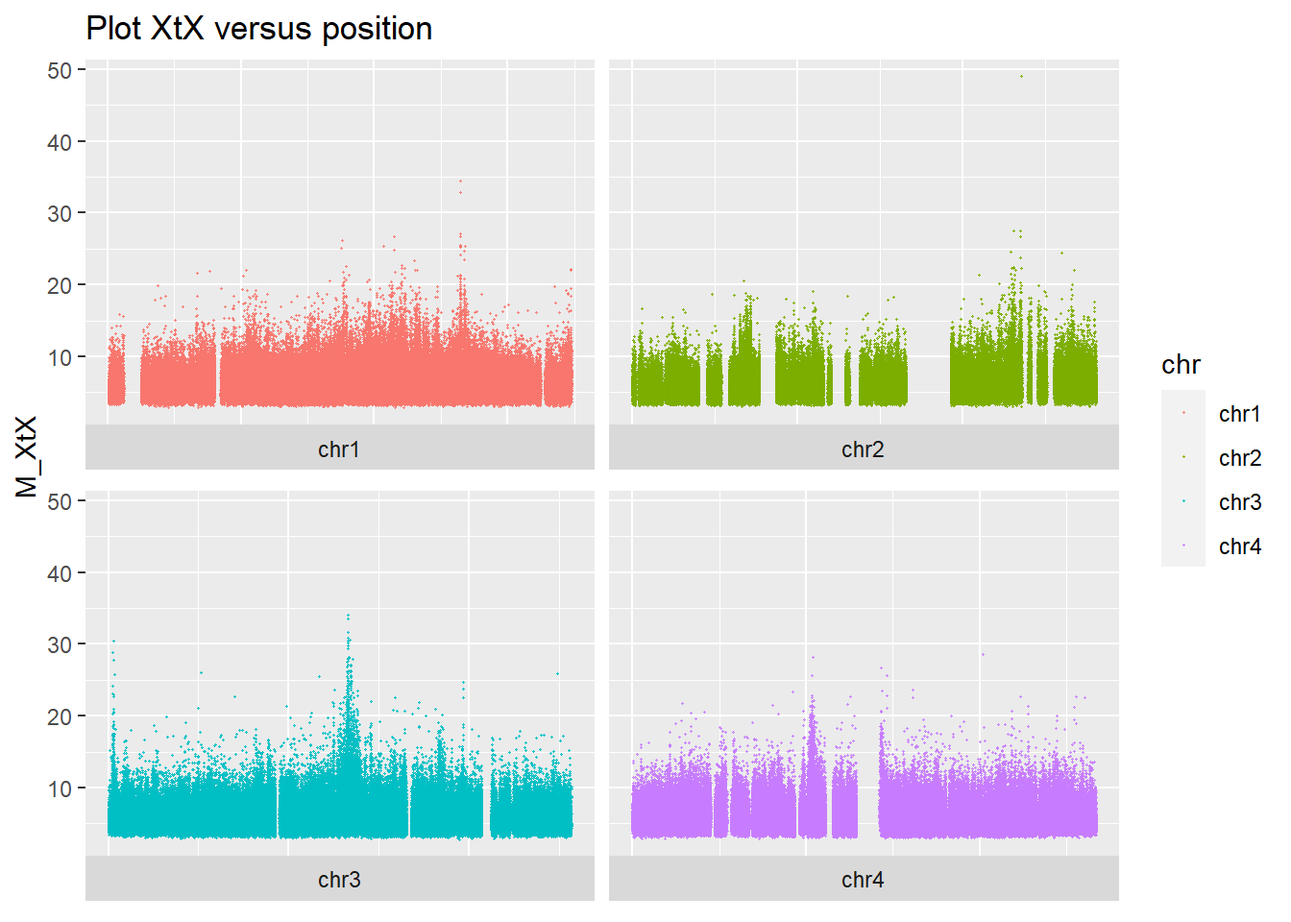
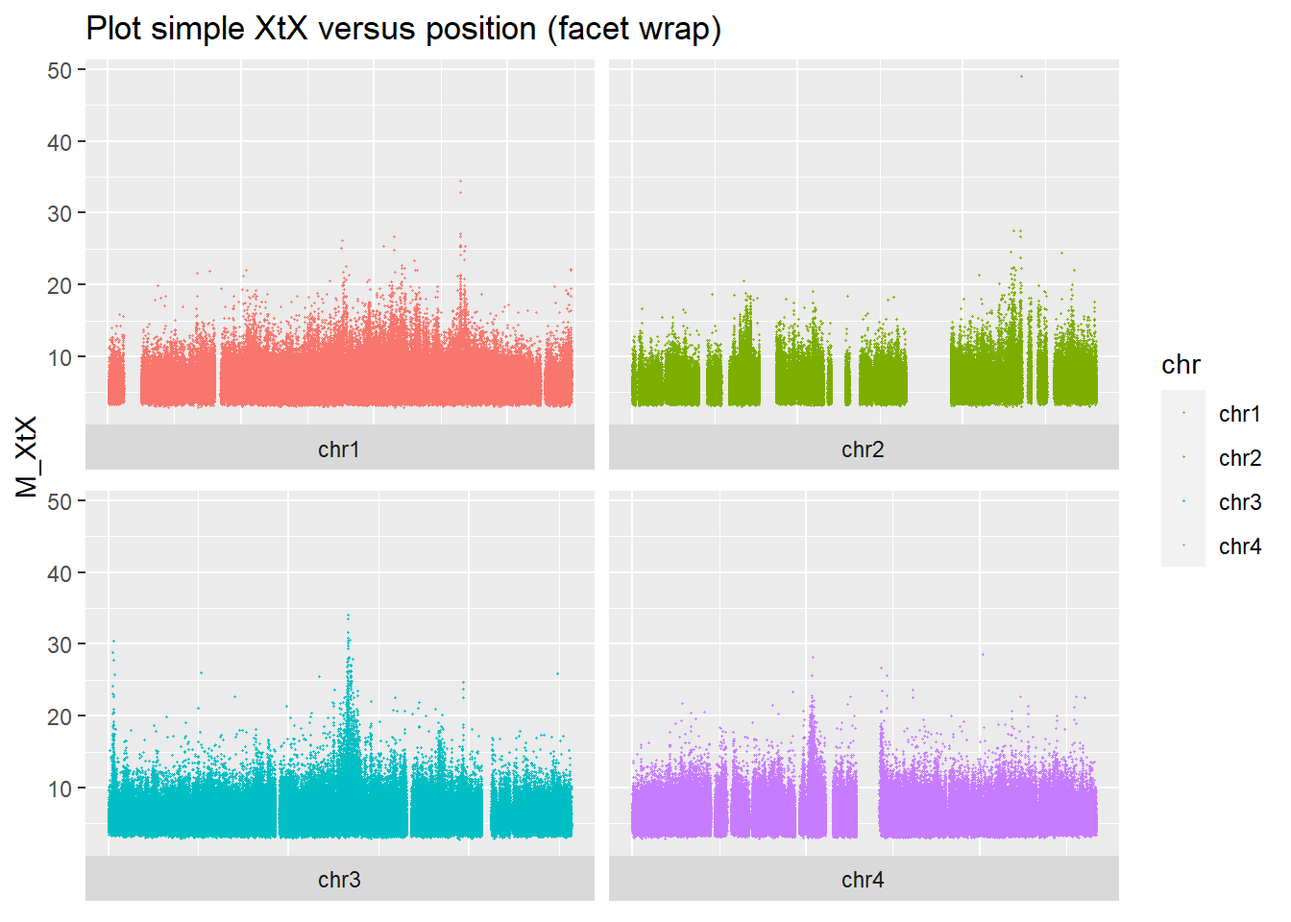
maj

Changed region(s): [[0.125, 0.0, 0.5625, 0.0625]]

diff --git a/docs/exploitation-des-résultats.html b/docs/exploitation-des-résultats.html
@@ -29,7 +29,7 @@ set in the _output.yml file.</p>" />
 <meta name="author" content="Jérôme OLIVARES" />
 
 
-<meta name="date" content="2023-09-23" />
+<meta name="date" content="2023-10-03" />
 
   <meta name="viewport" content="width=device-width, initial-scale=1" />
   <meta name="apple-mobile-web-app-capable" content="yes" />
@@ -273,14 +273,17 @@ Les valeurs de XtX les plus élevés indiquent une différentiation significativ
 Les valeurs de <em>XtX</em> sont contenues dans la colonne <strong><em>M_XtX</em></strong><br>
 L’affichage des chromosomes peut se faire en grille (facet_wrap) ou en ligne (facet_grid).<br>
 </p>
-<div class="sourceCode" id="cb25"><pre class="sourceCode r bg-chunk"><code class="sourceCode r"><span id="cb25-1"><a href="exploitation-des-résultats.html#cb25-1" tabindex="-1"></a>Manplot.XtX <span class="ot">=</span> <span class="fu">ggplot</span>(<span class="at">data=</span>XtX.res, <span class="fu">aes</span>(<span class="at">x=</span>pos, <span class="at">y=</span>M_XtX)) <span class="sc">+</span></span>
+<div class="sourceCode" id="cb25"><pre class="sourceCode r bg-chunk"><code class="sourceCode r"><span id="cb25-1"><a href="exploitation-des-résultats.html#cb25-1" tabindex="-1"></a>Manplot.XtX <span class="ot">=</span> <span class="fu">ggplot</span>(<span class="at">data=</span>Full.res, <span class="fu">aes</span>(<span class="at">x=</span>pos, <span class="at">y=</span>M_XtX)) <span class="sc">+</span></span>
 <span id="cb25-2"><a href="exploitation-des-résultats.html#cb25-2" tabindex="-1"></a>  <span class="fu">geom_point</span>(<span class="fu">aes</span>(<span class="at">color=</span>chr), <span class="at">alpha=</span><span class="fl">0.8</span>, <span class="at">size=</span><span class="fl">0.25</span>) <span class="sc">+</span></span>
-<span id="cb25-3"><a href="exploitation-des-résultats.html#cb25-3" tabindex="-1"></a>  <span class="fu">theme</span>(<span class="at">axis.title.x=</span><span class="fu">element_blank</span>(), <span class="at">axis.text.x=</span><span class="fu">element_blank</span>(), <span class="at">axis.ticks.x=</span><span class="fu">element_blank</span>())<span class="sc">+</span></span>
-<span id="cb25-4"><a href="exploitation-des-résultats.html#cb25-4" tabindex="-1"></a>  <span class="fu">ggtitle</span>(<span class="st">&quot;Plot XtX versus position&quot;</span>)</span>
-<span id="cb25-5"><a href="exploitation-des-résultats.html#cb25-5" tabindex="-1"></a>Manplot.XtX <span class="sc">+</span> <span class="fu">facet_wrap</span>(<span class="sc">~</span>chr, <span class="at">scales =</span> <span class="st">&#39;free_x&#39;</span>, <span class="at">strip.position =</span> <span class="fu">c</span>(<span class="st">&quot;bottom&quot;</span>))</span></code></pre></div>
+<span id="cb25-3"><a href="exploitation-des-résultats.html#cb25-3" tabindex="-1"></a>  <span class="fu">theme</span>(<span class="at">axis.title.x=</span><span class="fu">element_blank</span>(), <span class="at">axis.text.x=</span><span class="fu">element_blank</span>(), <span class="at">axis.ticks.x=</span><span class="fu">element_blank</span>())</span>
+<span id="cb25-4"><a href="exploitation-des-résultats.html#cb25-4" tabindex="-1"></a></span>
+<span id="cb25-5"><a href="exploitation-des-résultats.html#cb25-5" tabindex="-1"></a>Manplot.XtX <span class="sc">+</span> <span class="fu">ggtitle</span>(<span class="st">&quot;Plot simple XtX versus position (facet wrap)&quot;</span>)<span class="sc">+</span></span>
+<span id="cb25-6"><a href="exploitation-des-résultats.html#cb25-6" tabindex="-1"></a>  <span class="fu">facet_wrap</span>(<span class="sc">~</span>chr, <span class="at">scales =</span> <span class="st">&#39;free_x&#39;</span>, <span class="at">strip.position =</span> <span class="fu">c</span>(<span class="st">&quot;bottom&quot;</span>))</span></code></pre></div>
 <p><img src="BayPass_Fr_files/figure-html/plot_XtX-1.png" width="672" /></p>
-<div class="sourceCode" id="cb26"><pre class="sourceCode r bg-chunk"><code class="sourceCode r"><span id="cb26-1"><a href="exploitation-des-résultats.html#cb26-1" tabindex="-1"></a>Manplot.XtX <span class="sc">+</span> <span class="fu">facet_grid</span>(<span class="sc">~</span>chr,<span class="at">scales =</span> <span class="st">&#39;free_x&#39;</span>, <span class="at">space =</span> <span class="st">&#39;free_x&#39;</span>, <span class="at">switch =</span> <span class="st">&#39;x&#39;</span>)</span></code></pre></div>
+<div class="sourceCode" id="cb26"><pre class="sourceCode r bg-chunk"><code class="sourceCode r"><span id="cb26-1"><a href="exploitation-des-résultats.html#cb26-1" tabindex="-1"></a>Manplot.XtX <span class="sc">+</span> <span class="fu">ggtitle</span>(<span class="st">&quot;Plot simple des XtX versus position (facet grid)&quot;</span>)<span class="sc">+</span></span>
+<span id="cb26-2"><a href="exploitation-des-résultats.html#cb26-2" tabindex="-1"></a>  <span class="fu">facet_grid</span>(<span class="sc">~</span>chr,<span class="at">scales =</span> <span class="st">&#39;free_x&#39;</span>, <span class="at">space =</span> <span class="st">&#39;free_x&#39;</span>, <span class="at">switch =</span> <span class="st">&#39;x&#39;</span>)</span></code></pre></div>
 <p><img src="BayPass_Fr_files/figure-html/plot_XtX-2.png" width="672" /></p>
+<p>Dans l’exemple précédent on peut voir plusieurs régions génomiques fortement différenciées en particulier au milieu du chromosome 3.</p>
 </div>
 <div id="les-résultats-de-bayes-factor-bf" class="section level2 unnumbered hasAnchor">
 <h2>Les résultats de Bayes Factor <em>BF</em>:<a href="exploitation-des-résultats.html#les-résultats-de-bayes-factor-bf" class="anchor-section" aria-label="Anchor link to header"></a></h2>
@@ -294,17 +297,14 @@ Un Manhattan plot simple des valeurs de <em>BF</em> permet de visualiser les SNP
 Les valeurs de Bayes Factors sont contenues dans la colonne <strong><em>BF.dB.</em></strong><br>
 L’affichage des chromosomes peut se faire en grille (facet_wrap) ou en ligne (facet_grid).<br>
 </p>
-<div class="sourceCode" id="cb27"><pre class="sourceCode r bg-chunk"><code class="sourceCode r"><span id="cb27-1"><a href="exploitation-des-résultats.html#cb27-1" tabindex="-1"></a><span class="co">#import results</span></span>
-<span id="cb27-2"><a href="exploitation-des-résultats.html#cb27-2" tabindex="-1"></a>BF.res<span class="ot">=</span><span class="fu">read.table</span>(<span class="fu">paste0</span>(path_out,<span class="st">&quot;project.Cov1&quot;</span>),<span class="at">h=</span>T)</span>
-<span id="cb27-3"><a href="exploitation-des-résultats.html#cb27-3" tabindex="-1"></a><span class="co">#plot</span></span>
-<span id="cb27-4"><a href="exploitation-des-résultats.html#cb27-4" tabindex="-1"></a>Manplot.BF <span class="ot">=</span> <span class="fu">ggplot</span>(<span class="at">data=</span>BF.res, <span class="fu">aes</span>(<span class="at">x=</span>pos, <span class="at">y=</span>BF.dB.)) <span class="sc">+</span></span>
-<span id="cb27-5"><a href="exploitation-des-résultats.html#cb27-5" tabindex="-1"></a>  <span class="fu">geom_point</span>(<span class="fu">aes</span>(<span class="at">color=</span>chr), <span class="at">alpha=</span><span class="fl">0.8</span>, <span class="at">size=</span><span class="fl">0.25</span>) <span class="sc">+</span></span>
-<span id="cb27-6"><a href="exploitation-des-résultats.html#cb27-6" tabindex="-1"></a>  <span class="fu">ggtitle</span>(<span class="st">&quot;Plot Bayes Factors versus position&quot;</span>)</span>
-<span id="cb27-7"><a href="exploitation-des-résultats.html#cb27-7" tabindex="-1"></a>Manplot.BF <span class="sc">+</span> <span class="fu">scale_x_continuous</span>() <span class="sc">+</span></span>
-<span id="cb27-8"><a href="exploitation-des-résultats.html#cb27-8" tabindex="-1"></a>  <span class="fu">scale_y_continuous</span>() <span class="sc">+</span></span>
-<span id="cb27-9"><a href="exploitation-des-résultats.html#cb27-9" tabindex="-1"></a>  <span class="fu">theme</span>(<span class="at">axis.title.x=</span><span class="fu">element_blank</span>(), <span class="at">axis.text.x=</span><span class="fu">element_blank</span>(), <span class="at">axis.ticks.x=</span><span class="fu">element_blank</span>())<span class="sc">+</span></span>
-<span id="cb27-10"><a href="exploitation-des-résultats.html#cb27-10" tabindex="-1"></a>  <span class="fu">facet_wrap</span>(<span class="sc">~</span>chr, <span class="at">scales =</span> <span class="st">&#39;free_x&#39;</span>, <span class="at">strip.position =</span> <span class="fu">c</span>(<span class="st">&quot;bottom&quot;</span>))</span>
-<span id="cb27-11"><a href="exploitation-des-résultats.html#cb27-11" tabindex="-1"></a>  <span class="co">#facet_grid(~chr,scales = &#39;free_x&#39;, space = &#39;free_x&#39;, switch = &#39;x&#39;)</span></span></code></pre></div>
+<div class="sourceCode" id="cb27"><pre class="sourceCode r bg-chunk"><code class="sourceCode r"><span id="cb27-1"><a href="exploitation-des-résultats.html#cb27-1" tabindex="-1"></a><span class="co">#plot</span></span>
+<span id="cb27-2"><a href="exploitation-des-résultats.html#cb27-2" tabindex="-1"></a>Manplot.BF <span class="ot">=</span> <span class="fu">ggplot</span>(<span class="at">data=</span>Full.res, <span class="fu">aes</span>(<span class="at">x=</span>pos, <span class="at">y=</span>BF.dB.)) <span class="sc">+</span></span>
+<span id="cb27-3"><a href="exploitation-des-résultats.html#cb27-3" tabindex="-1"></a>  <span class="fu">geom_point</span>(<span class="fu">aes</span>(<span class="at">color=</span>chr), <span class="at">alpha=</span><span class="fl">0.8</span>, <span class="at">size=</span><span class="fl">0.25</span>) <span class="sc">+</span></span>
+<span id="cb27-4"><a href="exploitation-des-résultats.html#cb27-4" tabindex="-1"></a>  <span class="fu">theme</span>(<span class="at">axis.title.x=</span><span class="fu">element_blank</span>(), <span class="at">axis.text.x=</span><span class="fu">element_blank</span>(), <span class="at">axis.ticks.x=</span><span class="fu">element_blank</span>())</span>
+<span id="cb27-5"><a href="exploitation-des-résultats.html#cb27-5" tabindex="-1"></a>Manplot.BF <span class="sc">+</span> <span class="fu">ggtitle</span>(<span class="st">&quot;Plot Bayes Factors versus position&quot;</span>)<span class="sc">+</span></span>
+<span id="cb27-6"><a href="exploitation-des-résultats.html#cb27-6" tabindex="-1"></a>  <span class="fu">facet_wrap</span>(<span class="sc">~</span>chr, <span class="at">scales =</span> <span class="st">&#39;free_x&#39;</span>, <span class="at">strip.position =</span> <span class="fu">c</span>(<span class="st">&quot;bottom&quot;</span>))</span>
+<span id="cb27-7"><a href="exploitation-des-résultats.html#cb27-7" tabindex="-1"></a>Manplot.BF <span class="sc">+</span> <span class="fu">ggtitle</span>(<span class="st">&quot;Plot Bayes Factors versus position&quot;</span>)<span class="sc">+</span></span>
+<span id="cb27-8"><a href="exploitation-des-résultats.html#cb27-8" tabindex="-1"></a>  <span class="fu">facet_grid</span>(<span class="sc">~</span>chr,<span class="at">scales =</span> <span class="st">&#39;free_x&#39;</span>, <span class="at">space =</span> <span class="st">&#39;free_x&#39;</span>, <span class="at">switch =</span> <span class="st">&#39;x&#39;</span>)</span></code></pre></div>
 </div>
 <div id="les-résultats-de-contraste-c2" class="section level2 unnumbered hasAnchor">
 <h2>Les résultats de Contraste <em>C2</em>:<a href="exploitation-des-résultats.html#les-résultats-de-contraste-c2" class="anchor-section" aria-label="Anchor link to header"></a></h2>
@@ -317,31 +317,29 @@ Un Manhattan plot simple des valeurs de la colonne <em>M_C2</em> permet de visua
 Les valeurs de contraste sont contenues dans la colonne <strong><em>M_C2</em></strong><br>
 L’affichage des chromosomes peut se faire en grille (facet_wrap) ou en ligne (facet_grid).<br>
 </p>
-<div class="sourceCode" id="cb28"><pre class="sourceCode r bg-chunk"><code class="sourceCode r"><span id="cb28-1"><a href="exploitation-des-résultats.html#cb28-1" tabindex="-1"></a><span class="co">#import results</span></span>
-<span id="cb28-2"><a href="exploitation-des-résultats.html#cb28-2" tabindex="-1"></a>C2.res<span class="ot">=</span><span class="fu">read.table</span>(<span class="fu">paste0</span>(path_out,<span class="st">&quot;project.Contrast1&quot;</span>),<span class="at">h=</span>T)</span>
-<span id="cb28-3"><a href="exploitation-des-résultats.html#cb28-3" tabindex="-1"></a><span class="co">#plot</span></span>
-<span id="cb28-4"><a href="exploitation-des-résultats.html#cb28-4" tabindex="-1"></a>Manplot.BF <span class="ot">=</span> <span class="fu">ggplot</span>(<span class="at">data=</span>C2.res, <span class="fu">aes</span>(<span class="at">x=</span>pos, <span class="at">y=</span>M_C2)) <span class="sc">+</span></span>
-<span id="cb28-5"><a href="exploitation-des-résultats.html#cb28-5" tabindex="-1"></a>  <span class="fu">geom_point</span>(<span class="fu">aes</span>(<span class="at">color=</span>chr), <span class="at">alpha=</span><span class="fl">0.8</span>, <span class="at">size=</span><span class="fl">0.25</span>) <span class="sc">+</span></span>
-<span id="cb28-6"><a href="exploitation-des-résultats.html#cb28-6" tabindex="-1"></a>  <span class="fu">ggtitle</span>(<span class="st">&quot;Plot contrast values versus position&quot;</span>)</span>
-<span id="cb28-7"><a href="exploitation-des-résultats.html#cb28-7" tabindex="-1"></a>Manplot.BF <span class="sc">+</span> <span class="fu">scale_x_continuous</span>() <span class="sc">+</span></span>
-<span id="cb28-8"><a href="exploitation-des-résultats.html#cb28-8" tabindex="-1"></a>  <span class="fu">scale_y_continuous</span>() <span class="sc">+</span></span>
-<span id="cb28-9"><a href="exploitation-des-résultats.html#cb28-9" tabindex="-1"></a>  <span class="fu">theme</span>(<span class="at">axis.title.x=</span><span class="fu">element_blank</span>(), <span class="at">axis.text.x=</span><span class="fu">element_blank</span>(), <span class="at">axis.ticks.x=</span><span class="fu">element_blank</span>())<span class="sc">+</span></span>
-<span id="cb28-10"><a href="exploitation-des-résultats.html#cb28-10" tabindex="-1"></a>  <span class="fu">facet_wrap</span>(<span class="sc">~</span>chr, <span class="at">scales =</span> <span class="st">&#39;free_x&#39;</span>, <span class="at">strip.position =</span> <span class="fu">c</span>(<span class="st">&quot;bottom&quot;</span>))</span>
-<span id="cb28-11"><a href="exploitation-des-résultats.html#cb28-11" tabindex="-1"></a>  <span class="co">#facet_grid(~chr,scales = &#39;free_x&#39;, space = &#39;free_x&#39;, switch = &#39;x&#39;)</span></span></code></pre></div>
+<div class="sourceCode" id="cb28"><pre class="sourceCode r bg-chunk"><code class="sourceCode r"><span id="cb28-1"><a href="exploitation-des-résultats.html#cb28-1" tabindex="-1"></a><span class="co">#plot</span></span>
+<span id="cb28-2"><a href="exploitation-des-résultats.html#cb28-2" tabindex="-1"></a>Manplot.BF <span class="ot">=</span> <span class="fu">ggplot</span>(<span class="at">data=</span>Full.res, <span class="fu">aes</span>(<span class="at">x=</span>pos, <span class="at">y=</span>M_C2)) <span class="sc">+</span></span>
+<span id="cb28-3"><a href="exploitation-des-résultats.html#cb28-3" tabindex="-1"></a>  <span class="fu">geom_point</span>(<span class="fu">aes</span>(<span class="at">color=</span>chr), <span class="at">alpha=</span><span class="fl">0.8</span>, <span class="at">size=</span><span class="fl">0.25</span>) <span class="sc">+</span></span>
+<span id="cb28-4"><a href="exploitation-des-résultats.html#cb28-4" tabindex="-1"></a>  <span class="fu">theme</span>(<span class="at">axis.title.x=</span><span class="fu">element_blank</span>(), <span class="at">axis.text.x=</span><span class="fu">element_blank</span>(), <span class="at">axis.ticks.x=</span><span class="fu">element_blank</span>())</span>
+<span id="cb28-5"><a href="exploitation-des-résultats.html#cb28-5" tabindex="-1"></a>Manplot.BF <span class="sc">+</span></span>
+<span id="cb28-6"><a href="exploitation-des-résultats.html#cb28-6" tabindex="-1"></a>  <span class="fu">ggtitle</span>(<span class="st">&quot;Plot contrast values versus position&quot;</span>)<span class="sc">+</span></span>
+<span id="cb28-7"><a href="exploitation-des-résultats.html#cb28-7" tabindex="-1"></a>  <span class="fu">facet_wrap</span>(<span class="sc">~</span>chr, <span class="at">scales =</span> <span class="st">&#39;free_x&#39;</span>, <span class="at">strip.position =</span> <span class="fu">c</span>(<span class="st">&quot;bottom&quot;</span>))</span>
+<span id="cb28-8"><a href="exploitation-des-résultats.html#cb28-8" tabindex="-1"></a>Manplot.BF <span class="sc">+</span></span>
+<span id="cb28-9"><a href="exploitation-des-résultats.html#cb28-9" tabindex="-1"></a>  <span class="fu">ggtitle</span>(<span class="st">&quot;Plot contrast values versus position&quot;</span>)<span class="sc">+</span></span>
+<span id="cb28-10"><a href="exploitation-des-résultats.html#cb28-10" tabindex="-1"></a>  <span class="fu">facet_grid</span>(<span class="sc">~</span>chr,<span class="at">scales =</span> <span class="st">&#39;free_x&#39;</span>, <span class="at">space =</span> <span class="st">&#39;free_x&#39;</span>, <span class="at">switch =</span> <span class="st">&#39;x&#39;</span>)</span></code></pre></div>
 <p>#Comparaison par diagramme de Venn:</p>
 <div class="sourceCode" id="cb29"><pre class="sourceCode r bg-chunk"><code class="sourceCode r"><span id="cb29-1"><a href="exploitation-des-résultats.html#cb29-1" tabindex="-1"></a><span class="co">#Filtrage selon conditions</span></span>
-<span id="cb29-2"><a href="exploitation-des-résultats.html#cb29-2" tabindex="-1"></a>thresh.BF2<span class="ot">&lt;-</span><span class="fu">c</span>(<span class="dv">10</span>)</span>
-<span id="cb29-3"><a href="exploitation-des-résultats.html#cb29-3" tabindex="-1"></a>Datmp1 <span class="ot">=</span> <span class="fu">subset</span>(Joined.res1, M_XtX<span class="sc">&gt;</span> thresh.XtX )</span>
-<span id="cb29-4"><a href="exploitation-des-résultats.html#cb29-4" tabindex="-1"></a>Datmp2 <span class="ot">=</span> <span class="fu">subset</span>(Joined.res1, M_C2<span class="sc">&gt;</span>thresh.C2)</span>
-<span id="cb29-5"><a href="exploitation-des-résultats.html#cb29-5" tabindex="-1"></a>Datmp3 <span class="ot">=</span> <span class="fu">subset</span>(Joined.res1, BF.dB.<span class="sc">&gt;</span>thresh.BF2)</span>
-<span id="cb29-6"><a href="exploitation-des-résultats.html#cb29-6" tabindex="-1"></a></span>
-<span id="cb29-7"><a href="exploitation-des-résultats.html#cb29-7" tabindex="-1"></a><span class="co">#Conversion en liste au format &quot;chr1_pos1, chr1_pos2, chr1_pos3, ...&quot;, </span></span>
-<span id="cb29-8"><a href="exploitation-des-résultats.html#cb29-8" tabindex="-1"></a>List.SNP1<span class="ot">&lt;-</span><span class="fu">paste</span>(Datmp1[,<span class="dv">1</span>], <span class="st">&quot;_&quot;</span>, Datmp1[,<span class="dv">2</span>], <span class="at">sep=</span><span class="st">&quot;&quot;</span>)</span>
-<span id="cb29-9"><a href="exploitation-des-résultats.html#cb29-9" tabindex="-1"></a>List.SNP2<span class="ot">&lt;-</span><span class="fu">paste</span>(Datmp2[,<span class="dv">1</span>], <span class="st">&quot;_&quot;</span>, Datmp2[,<span class="dv">2</span>], <span class="at">sep=</span><span class="st">&quot;&quot;</span>)</span>
-<span id="cb29-10"><a href="exploitation-des-résultats.html#cb29-10" tabindex="-1"></a>List.SNP3<span class="ot">&lt;-</span><span class="fu">paste</span>(Datmp3[,<span class="dv">1</span>], <span class="st">&quot;_&quot;</span>, Datmp3[,<span class="dv">2</span>], <span class="at">sep=</span><span class="st">&quot;&quot;</span>)</span></code></pre></div>
+<span id="cb29-2"><a href="exploitation-des-résultats.html#cb29-2" tabindex="-1"></a>Datmp1 <span class="ot">=</span> <span class="fu">subset</span>(Full.res, M_XtX <span class="sc">&gt;</span> <span class="fu">quantile</span>(Full.res<span class="sc">$</span>M_XtX, <span class="at">probs=</span><span class="fl">0.99</span> ))</span>
+<span id="cb29-3"><a href="exploitation-des-résultats.html#cb29-3" tabindex="-1"></a>Datmp2 <span class="ot">=</span> <span class="fu">subset</span>(Full.res, log10.<span class="fl">1.</span>pval. <span class="sc">&gt;</span><span class="fu">quantile</span>(Full.res<span class="sc">$</span>log10.<span class="fl">1.</span>pval., <span class="at">probs=</span><span class="fl">0.99</span>))</span>
+<span id="cb29-4"><a href="exploitation-des-résultats.html#cb29-4" tabindex="-1"></a>Datmp3 <span class="ot">=</span> <span class="fu">subset</span>(Full.res, BF.dB.<span class="sc">&gt;=</span> <span class="dv">15</span>)</span>
+<span id="cb29-5"><a href="exploitation-des-résultats.html#cb29-5" tabindex="-1"></a></span>
+<span id="cb29-6"><a href="exploitation-des-résultats.html#cb29-6" tabindex="-1"></a><span class="co">#Conversion en liste au format &quot;chr1_pos1, chr1_pos2, chr1_pos3, ...&quot;, </span></span>
+<span id="cb29-7"><a href="exploitation-des-résultats.html#cb29-7" tabindex="-1"></a>List.SNP1<span class="ot">&lt;-</span><span class="fu">paste</span>(Datmp1[,<span class="dv">1</span>], <span class="st">&quot;_&quot;</span>, Datmp1[,<span class="dv">2</span>], <span class="at">sep=</span><span class="st">&quot;&quot;</span>)</span>
+<span id="cb29-8"><a href="exploitation-des-résultats.html#cb29-8" tabindex="-1"></a>List.SNP2<span class="ot">&lt;-</span><span class="fu">paste</span>(Datmp2[,<span class="dv">1</span>], <span class="st">&quot;_&quot;</span>, Datmp2[,<span class="dv">2</span>], <span class="at">sep=</span><span class="st">&quot;&quot;</span>)</span>
+<span id="cb29-9"><a href="exploitation-des-résultats.html#cb29-9" tabindex="-1"></a>List.SNP3<span class="ot">&lt;-</span><span class="fu">paste</span>(Datmp3[,<span class="dv">1</span>], <span class="st">&quot;_&quot;</span>, Datmp3[,<span class="dv">2</span>], <span class="at">sep=</span><span class="st">&quot;&quot;</span>)</span></code></pre></div>
 <div class="sourceCode" id="cb30"><pre class="sourceCode r bg-chunk"><code class="sourceCode r"><span id="cb30-1"><a href="exploitation-des-résultats.html#cb30-1" tabindex="-1"></a><span class="co">#Diagramme de Venn</span></span>
 <span id="cb30-2"><a href="exploitation-des-résultats.html#cb30-2" tabindex="-1"></a><span class="co">#cat.col = c(&quot;darkgreen&quot;, &quot;black&quot;, &quot;darkblue&quot;)</span></span>
-<span id="cb30-3"><a href="exploitation-des-résultats.html#cb30-3" tabindex="-1"></a>vd0 <span class="ot">&lt;-</span> <span class="fu">venn.diagram</span>(<span class="at">x=</span><span class="fu">list</span>(<span class="st">&quot;XtX top1%&quot;</span> <span class="ot">=</span> List.SNP1, <span class="st">&quot;C2 top 1%&quot;</span> <span class="ot">=</span> List.SNP2, <span class="st">&quot;BF &gt;50&quot;</span> <span class="ot">=</span> List.SNP3), <span class="at">fill =</span> <span class="fu">c</span>(<span class="st">&quot;blue&quot;</span>, <span class="st">&quot;green&quot;</span>, <span class="st">&quot;red&quot;</span>), <span class="at">cat.col =</span> <span class="fu">c</span>(<span class="st">&quot;blue&quot;</span>, <span class="st">&quot;green&quot;</span>, <span class="st">&quot;red&quot;</span>), <span class="at">cat.cex =</span> <span class="fl">1.5</span>, <span class="at">fontface =</span> <span class="st">&quot;bold&quot;</span>, <span class="at">filename =</span> <span class="cn">NULL</span>)</span>
+<span id="cb30-3"><a href="exploitation-des-résultats.html#cb30-3" tabindex="-1"></a>vd0 <span class="ot">&lt;-</span> <span class="fu">venn.diagram</span>(<span class="at">x=</span><span class="fu">list</span>(<span class="st">&quot;XtX top1%&quot;</span> <span class="ot">=</span> List.SNP1, <span class="st">&quot;log10.1.pval. top 1%&quot;</span> <span class="ot">=</span> List.SNP2, <span class="st">&quot;BF &gt;=15&quot;</span> <span class="ot">=</span> List.SNP3), <span class="at">fill =</span> <span class="fu">c</span>(<span class="st">&quot;blue&quot;</span>, <span class="st">&quot;green&quot;</span>, <span class="st">&quot;red&quot;</span>), <span class="at">cat.col =</span> <span class="fu">c</span>(<span class="st">&quot;blue&quot;</span>, <span class="st">&quot;green&quot;</span>, <span class="st">&quot;red&quot;</span>), <span class="at">cat.cex =</span> <span class="fl">1.5</span>, <span class="at">fontface =</span> <span class="st">&quot;bold&quot;</span>, <span class="at">filename =</span> <span class="cn">NULL</span>)</span>
 <span id="cb30-4"><a href="exploitation-des-résultats.html#cb30-4" tabindex="-1"></a><span class="fu">grid.newpage</span>()</span>
 <span id="cb30-5"><a href="exploitation-des-résultats.html#cb30-5" tabindex="-1"></a><span class="fu">grid.draw</span>(vd0)</span></code></pre></div>
 <p>#Extraire les listes de chaque intersecte du diagramme:</p>

diff --git a/docs/données-brutes.html b/docs/données-brutes.html
@@ -29,7 +29,7 @@ set in the _output.yml file.</p>" />
 <meta name="author" content="Jérôme OLIVARES" />
 
 
-<meta name="date" content="2023-09-23" />
+<meta name="date" content="2023-10-03" />
 
   <meta name="viewport" content="width=device-width, initial-scale=1" />
   <meta name="apple-mobile-web-app-capable" content="yes" />
@@ -335,7 +335,7 @@ min.maf = fréquence allélique minimale autorisée pour l’allèle minoritaire
 ## for the alternate allele and RD field for the reference allele
 ## (N.B., positions with more than one alternate allele will be ignored)
 ## Parsing allele counts
-## 1e+06  lines processed in 0 h  0 m  19 s : 577119 SNPs found
+## 1e+06  lines processed in 0 h  0 m  20 s : 577119 SNPs found
 ## 1810324  lines processed in 0 h  0 m  32 s : 1066980 SNPs found
 ## Data consists of 1066980 SNPs for 6 Pools</code></pre>
 <div class="sourceCode" id="cb6"><pre class="sourceCode r bg-chunk"><code class="sourceCode r"><span id="cb6-1"><a href="données-brutes.html#cb6-1" tabindex="-1"></a><span class="co">#élimine le 1% supérieur considéré comme trop fortement couvert</span></span>
@@ -355,7 +355,7 @@ min.maf = fréquence allélique minimale autorisée pour l’allèle minoritaire
 <span id="cb8-7"><a href="données-brutes.html#cb8-7" tabindex="-1"></a>                                    <span class="at">output.snp.values =</span> <span class="cn">FALSE</span>,</span>
 <span id="cb8-8"><a href="données-brutes.html#cb8-8" tabindex="-1"></a>                                    <span class="at">verbose =</span> <span class="cn">FALSE</span>)</span></code></pre></div>
 <pre class="bg-output"><code>## 
-## Overall Analysis Time: 0 h 0 m 5 s</code></pre>
+## Overall Analysis Time: 0 h 0 m 6 s</code></pre>
 <div class="sourceCode" id="cb10"><pre class="sourceCode r bg-chunk"><code class="sourceCode r"><span id="cb10-1"><a href="données-brutes.html#cb10-1" tabindex="-1"></a><span class="co">#conversion en matrice de distance</span></span>
 <span id="cb10-2"><a href="données-brutes.html#cb10-2" tabindex="-1"></a>df <span class="ot">&lt;-</span> <span class="fu">as.matrix</span>(<span class="fu">dist</span>(<span class="fu">t</span>(PairWise.fst<span class="sc">@</span>PairwiseFSTmatrix)))</span>
 <span id="cb10-3"><a href="données-brutes.html#cb10-3" tabindex="-1"></a><span class="co">#heatmap</span></span>

diff --git a/docs/index.html b/docs/index.html
@@ -29,7 +29,7 @@ set in the _output.yml file.</p>" />
 <meta name="author" content="Jérôme OLIVARES" />
 
 
-<meta name="date" content="2023-09-23" />
+<meta name="date" content="2023-10-03" />
 
   <meta name="viewport" content="width=device-width, initial-scale=1" />
   <meta name="apple-mobile-web-app-capable" content="yes" />
@@ -231,7 +231,7 @@ div.csl-indent {
 <div id="header">
 <h1 class="title">BayPass 2.3: tutoriel de génomique d’association adapté au séquençage en pool</h1>
 <p class="author"><em>Jérôme OLIVARES<a href="#fn1" class="footnote-ref" id="fnref1"><sup>1</sup></a></em></p>
-<p class="date"><em>2023-09-23</em></p>
+<p class="date"><em>2023-10-03</em></p>
 </div>
 <div id="résumé" class="section level1 unnumbered hasAnchor">
 <h1>Résumé<a href="index.html#résumé" class="anchor-section" aria-label="Anchor link to header"></a></h1>

diff --git a/docs/404.html b/docs/404.html
@@ -29,7 +29,7 @@ set in the _output.yml file.</p>" />
 <meta name="author" content="Jérôme OLIVARES" />
 
 
-<meta name="date" content="2023-09-23" />
+<meta name="date" content="2023-10-03" />
 
   <meta name="viewport" content="width=device-width, initial-scale=1" />
   <meta name="apple-mobile-web-app-capable" content="yes" />

diff --git a/docs/baypass-lanalyse-poolseq.html b/docs/baypass-lanalyse-poolseq.html
@@ -29,7 +29,7 @@ set in the _output.yml file.</p>" />
 <meta name="author" content="Jérôme OLIVARES" />
 
 
-<meta name="date" content="2023-09-23" />
+<meta name="date" content="2023-10-03" />
 
   <meta name="viewport" content="width=device-width, initial-scale=1" />
   <meta name="apple-mobile-web-app-capable" content="yes" />

diff --git a/docs/baypass-les-résultats.html b/docs/baypass-les-résultats.html
@@ -29,7 +29,7 @@ set in the _output.yml file.</p>" />
 <meta name="author" content="Jérôme OLIVARES" />
 
 
-<meta name="date" content="2023-09-23" />
+<meta name="date" content="2023-10-03" />
 
   <meta name="viewport" content="width=device-width, initial-scale=1" />
   <meta name="apple-mobile-web-app-capable" content="yes" />

diff --git a/docs/conversion-du-pooldata-en-fichiers-dentrées-pour-baypass.html b/docs/conversion-du-pooldata-en-fichiers-dentrées-pour-baypass.html
@@ -29,7 +29,7 @@ set in the _output.yml file.</p>" />
 <meta name="author" content="Jérôme OLIVARES" />
 
 
-<meta name="date" content="2023-09-23" />
+<meta name="date" content="2023-10-03" />
 
   <meta name="viewport" content="width=device-width, initial-scale=1" />
   <meta name="apple-mobile-web-app-capable" content="yes" />

diff --git a/docs/introduction.html b/docs/introduction.html
@@ -29,7 +29,7 @@ set in the _output.yml file.</p>" />
 <meta name="author" content="Jérôme OLIVARES" />
 
 
-<meta name="date" content="2023-09-23" />
+<meta name="date" content="2023-10-03" />
 
   <meta name="viewport" content="width=device-width, initial-scale=1" />
   <meta name="apple-mobile-web-app-capable" content="yes" />

diff --git a/docs/présentation-du-logiciel-baypass-2.html b/docs/présentation-du-logiciel-baypass-2.html
@@ -29,7 +29,7 @@ set in the _output.yml file.</p>" />
 <meta name="author" content="Jérôme OLIVARES" />
 
 
-<meta name="date" content="2023-09-23" />
+<meta name="date" content="2023-10-03" />
 
   <meta name="viewport" content="width=device-width, initial-scale=1" />
   <meta name="apple-mobile-web-app-capable" content="yes" />

diff --git a/docs/références.html b/docs/références.html
@@ -29,7 +29,7 @@ set in the _output.yml file.</p>" />
 <meta name="author" content="Jérôme OLIVARES" />
 
 
-<meta name="date" content="2023-09-23" />
+<meta name="date" content="2023-10-03" />
 
   <meta name="viewport" content="width=device-width, initial-scale=1" />
   <meta name="apple-mobile-web-app-capable" content="yes" />
